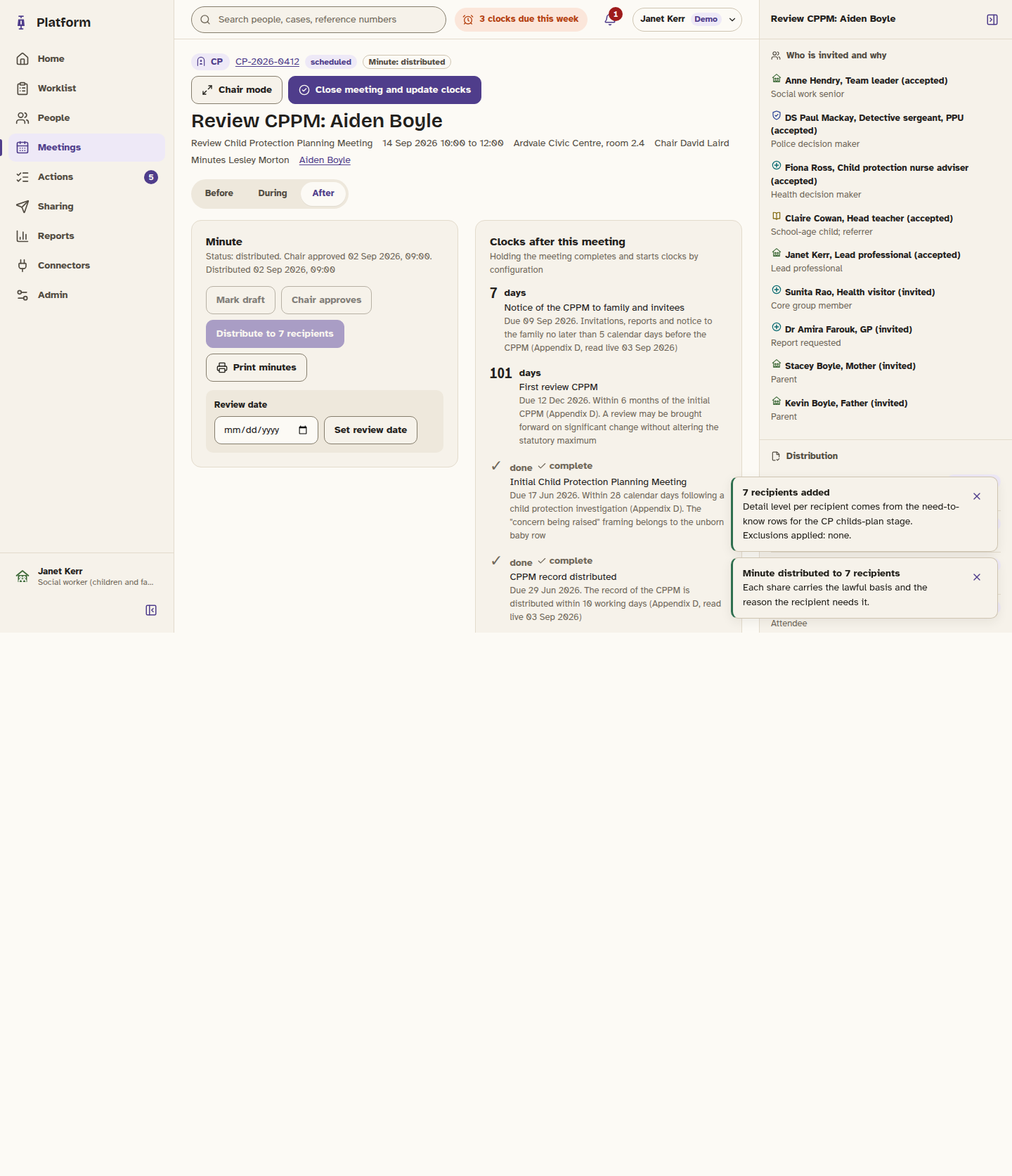
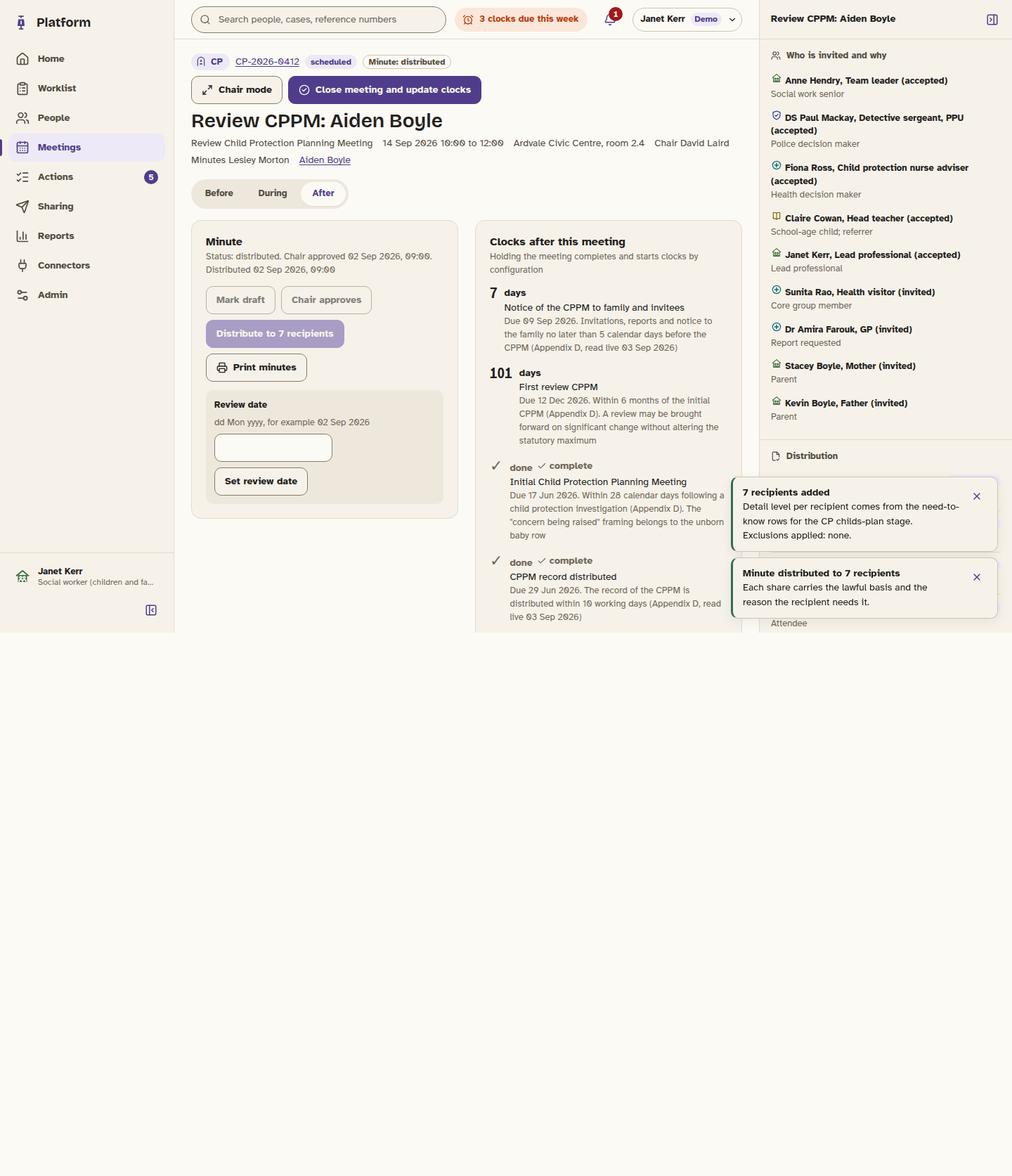
feat(ui): type dates as dd Mon yyyy in a shared DateField
Native date inputs render in the browser's locale, so the DAQ capture
showed 09/02/2026 where the product shows dd Mon yyyy everywhere else.
A DateField primitive now takes typed text (02 Sep 2026, 2 September
2026, 02/09/2026 or ISO), normalises it on blur, hands the form a
calendar date and names the format with an example when it cannot read
one. All twelve date inputs use it: the form dialogs, the meeting due
and review dates, the admin holiday lists and the audit filter.

The must-not-receive relationship hint is one example on one line so the
three fields in the entry sit level. Unit tests cover the parser and
the field; screenshots recaptured.

Claude-Session: https://claude.ai/code/session_01FKeMmPt1Xxg5XsbCUvgkkp

Changed region(s): [[0.1875, 0.3419, 0.4375, 0.4351]]

diff --git a/apps/web/features/meetings/MeetingWorkspace.tsx b/apps/web/features/meetings/MeetingWorkspace.tsx
@@ -1,7 +1,7 @@
 'use client';
 
 import { AGENCIES, AGENCY_SHORT, DETAIL_LEVELS, DETAIL_LEVEL_LABELS, MEETING_TYPE_LABELS, PROCESS_SHORT, ROLE_DEFINITIONS, applyMeetingTransition, contextFor, formatDate, formatDateTime, formatTime, isExcludedParty, resolveNeedToKnow, type Action, type Agency, type DetailLevel, type LawfulBasisRecord, type Meeting, type SharingRecord } from '@mas/domain';
-import { AgencyMark, Button, CheckboxField, ClockNumeral, Dialog, EmptyState, Pill, ProcessMark, RestrictedState, SelectField, Sheet, SheetBody, SheetHead, TextField, TextareaField, VoiceBlock, useToast } from '@mas/ui';
+import { AgencyMark, Button, CheckboxField, ClockNumeral, DateField, Dialog, EmptyState, Pill, ProcessMark, RestrictedState, SelectField, Sheet, SheetBody, SheetHead, TextField, TextareaField, VoiceBlock, useToast } from '@mas/ui';
 import { CheckCircle2, Maximize2, Minimize2, Play, Printer, Send, UserPlus } from 'lucide-react';
 import { useEffect, useState } from 'react';
 import { AppLink } from '@/components/AppLink';
@@ -312,7 +312,7 @@ export function MeetingWorkspace({ meetingId }: { meetingId: string }) {
                   <div className="cluster" style={{ alignItems: 'flex-end' }}>
                     <SelectField label="Agency" value={requestForm.agency} onChange={(e) => setRequestForm({ ...requestForm, agency: e.target.value as Agency, to: '' })} options={AGENCIES.map((a) => ({ value: a, label: AGENCY_SHORT[a] }))} />
                     <SelectField label="To" value={requestForm.to} onChange={(e) => setRequestForm({ ...requestForm, to: e.target.value })} placeholder="Choose a person" options={personas.filter((u) => u.agency === requestForm.agency).map((u) => ({ value: u.id, label: `${userName(u)}, ${ROLE_DEFINITIONS[u.roleId].label}` }))} />
-                    <TextField label="Due" type="date" value={requestForm.due} onChange={(e) => setRequestForm({ ...requestForm, due: e.target.value })} />
+                    <DateField label="Due" value={requestForm.due} onChange={(due) => setRequestForm({ ...requestForm, due })} />
                     <Button variant="secondary" icon={<Send size={14} aria-hidden="true" />} onClick={sendRequest} disabled={!requestForm.due}>
                       Send request
                     </Button>
@@ -482,7 +482,7 @@ export function MeetingWorkspace({ meetingId }: { meetingId: string }) {
                       <TextField label="Action" value={actionForm.title} onChange={(e) => setActionForm({ ...actionForm, title: e.target.value })} placeholder="Say what will happen, by whom, by when" />
                     </div>
                     <SelectField label="Owner" value={actionForm.owner} onChange={(e) => setActionForm({ ...actionForm, owner: e.target.value })} placeholder="Choose an attendee" options={meeting.invitees.filter((i) => i.userId).map((i) => ({ value: i.userId!, label: `${i.name} (${AGENCY_SHORT[i.agency]})` }))} />
-                    <TextField label="Due" type="date" value={actionForm.due} onChange={(e) => setActionForm({ ...actionForm, due: e.target.value })} />
+                    <DateField label="Due" value={actionForm.due} onChange={(due) => setActionForm({ ...actionForm, due })} />
                     <Button variant="primary" onClick={addAction} disabled={!actionForm.owner || !actionForm.due || actionForm.title.trim().length < 5}>
                       Capture action
                     </Button>
@@ -514,7 +514,7 @@ export function MeetingWorkspace({ meetingId }: { meetingId: string }) {
                 </div>
                 <div className={styles.form} style={{ marginTop: 12 }}>
                   <div className="cluster" style={{ alignItems: 'flex-end' }}>
-                    <TextField label="Review date" type="date" value={reviewDate} onChange={(e) => setReviewDate(e.target.value)} />
+                    <DateField label="Review date" value={reviewDate} onChange={setReviewDate} />
                     <Button variant="secondary" onClick={() => { update({ reviewDate: reviewDate || undefined }); toast({ title: 'Review date set', text: reviewDate ? formatDate(reviewDate) : 'Cleared' }); }}>
                       Set review date
                     </Button>

diff --git a/apps/web/features/process/forms/DaqDialog.tsx b/apps/web/features/process/forms/DaqDialog.tsx
@@ -1,7 +1,7 @@
 'use client';
 
 import { DAQ_QUESTIONS, DASH_QUESTIONS, HIGH_RISK_THRESHOLD, MARAC_MUST_NOT_RECEIVE_PARTIES, daqFormSchema, registerUpdateLabel, withMustNotReceive, type DaqForm, type MaracProcess, type RiskAssessment } from '@mas/domain';
-import { Button, CheckboxField, Dialog, RadioGroup, TextField, TextareaField, useToast } from '@mas/ui';
+import { Button, CheckboxField, DateField, Dialog, RadioGroup, TextareaField, useToast } from '@mas/ui';
 import { zodResolver } from '@hookform/resolvers/zod';
 import { Controller, FormProvider, useForm } from 'react-hook-form';
 import { useAppStore, useCurrentUser, useNow } from '@/lib/store';
@@ -78,7 +78,7 @@ export function DaqDialog({ open, onClose, process }: { open: boolean; onClose: 
       <FormProvider {...form}>
         <form className="stack" onSubmit={(e) => e.preventDefault()} noValidate>
           <Controller control={form.control} name="tool" render={({ field }) => <RadioGroup legend="Instrument" name="tool" value={field.value} onChange={field.onChange} orientation="horizontal" options={[{ value: 'daq', label: 'Police Scotland DAQ (27 questions)' }, { value: 'dash', label: 'SafeLives DASH (24 questions)' }]} />} />
-          <TextField label="Date completed" type="date" required {...form.register('assessedAt')} error={errors.assessedAt?.message} />
+          <Controller control={form.control} name="assessedAt" render={({ field }) => <DateField label="Date completed" required value={field.value} onChange={field.onChange} onBlur={field.onBlur} name={field.name} error={errors.assessedAt?.message} />} />
           <p aria-live="polite" style={{ fontWeight: 700 }}>
             {yes} yes answers so far. {yes >= HIGH_RISK_THRESHOLD ? 'High risk: this meets the referral threshold.' : `${HIGH_RISK_THRESHOLD - yes} more for the high-risk threshold.`}
           </p>
@@ -89,7 +89,7 @@ export function DaqDialog({ open, onClose, process }: { open: boolean; onClose: 
           </div>
           <CheckboxField label="Refer on professional judgement even if below 14" {...form.register('referBelowThreshold')} />
           <TextareaField label="Professional judgement" {...form.register('professionalJudgement')} error={errors.professionalJudgement?.message} hint="Required for a referral below the threshold. Why the score understates the risk." />
-          <MustNotReceiveFields parties={MARAC_MUST_NOT_RECEIVE_PARTIES} relationshipHint="For example the perpetrator's brother, or someone who lives with the perpetrator." />
+          <MustNotReceiveFields parties={MARAC_MUST_NOT_RECEIVE_PARTIES} relationshipHint="For example the perpetrator's brother." />
         </form>
       </FormProvider>
     </Dialog>

diff --git a/packages/ui/src/primitives/DateField.tsx b/packages/ui/src/primitives/DateField.tsx
@@ -1,0 +1,68 @@
+import { formatCalendarDate, parseTypedDate, UI_DATE_EXAMPLE, UI_DATE_FORMAT } from '@mas/domain';
+import { useState, type InputHTMLAttributes, type ReactNode } from 'react';
+import { cn } from '../cn';
+import styles from './DateField.module.css';
+import { TextField } from './Field';
+
+export interface DateFieldProps extends Omit<InputHTMLAttributes<HTMLInputElement>, 'value' | 'onChange' | 'type' | 'required'> {
+  label: ReactNode;
+  hint?: ReactNode;
+  error?: ReactNode;
+  required?: boolean;
+  /** A calendar date as yyyy-MM-dd, or empty. */
+  value: string;
+  /** Called with yyyy-MM-dd when the text parses, with the raw text otherwise so a schema can reject it. */
+  onChange: (value: string) => void;
+}
+
+const FORMAT_ERROR = `Enter the date as ${UI_DATE_FORMAT}, for example ${UI_DATE_EXAMPLE}`;
+
+/**
+ * A date typed as dd Mon yyyy, the format the rest of the product shows. Native date inputs
+ * render in the browser's locale, which the product cannot control, so this field takes text
+ * and normalises it on blur. Accepts 2 Sep 2026, 02/09/2026 and 2026-09-02 as well.
+ */
+export function DateField({ label, hint, error, required, value, onChange, onBlur, className, ...rest }: DateFieldProps) {
+  const [text, setText] = useState(() => formatCalendarDate(value) || value);
+  const [formatError, setFormatError] = useState<string | undefined>(undefined);
+  const [seenValue, setSeenValue] = useState(value);
+
+  // Follow the value when it changes from outside (a reset, a default, a cleared filter) without
+  // disturbing text the person is still typing that already means the same date.
+  if (value !== seenValue) {
+    setSeenValue(value);
+    if (parseTypedDate(text) !== value) setText(formatCalendarDate(value) || value);
+    if (!value) setFormatError(undefined);
+  }
+
+  return (
+    <TextField
+      label={label}
+      hint={hint ?? `${UI_DATE_FORMAT}, for example ${UI_DATE_EXAMPLE}`}
+      error={error ?? formatError}
+      required={required}
+      className={cn(styles.date, className)}
+      inputMode="text"
+      autoComplete="off"
+      spellCheck={false}
+      value={text}
+      onChange={(e) => {
+        const next = e.target.value;
+        setText(next);
+        setFormatError(undefined);
+        onChange(parseTypedDate(next) ?? next);
+      }}
+      onBlur={(e) => {
+        const parsed = parseTypedDate(text);
+        if (parsed) {
+          setText(formatCalendarDate(parsed));
+          setFormatError(undefined);
+        } else {
+          setFormatError(text.trim() ? FORMAT_ERROR : undefined);
+        }
+        onBlur?.(e);
+      }}
+      {...rest}
+    />
+  );
+}

diff --git a/packages/domain/src/dates.ts b/packages/domain/src/dates.ts
@@ -2,7 +2,7 @@
  * Date helpers. UI shows dd Mon yyyy and 24-hour times in Europe/London.
  * Data stays ISO 8601. All functions are pure.
  */
-import { differenceInCalendarDays, differenceInYears, parseISO } from 'date-fns';
+import { differenceInCalendarDays, differenceInYears, format, isValid, parse, parseISO } from 'date-fns';
 import { formatInTimeZone, toZonedTime } from 'date-fns-tz';
 
 export const TIME_ZONE = 'Europe/London';
@@ -33,6 +33,32 @@ export function formatTime(iso: string | Date): string {
 export function localDateOf(iso: string | Date): string {
   const d = typeof iso === 'string' ? parseISO(iso) : iso;
   return formatInTimeZone(d, TIME_ZONE, 'yyyy-MM-dd');
+}
+
+/** The format practitioners type a date in, and the example shown beside every date field. */
+export const UI_DATE_FORMAT = 'dd Mon yyyy';
+export const UI_DATE_EXAMPLE = '02 Sep 2026';
+
+const TYPED_DATE_FORMATS = ['dd MMM yyyy', 'd MMM yyyy', 'dd MMMM yyyy', 'd MMMM yyyy', 'dd/MM/yyyy', 'd/M/yyyy', 'dd.MM.yyyy', 'yyyy-MM-dd'];
+
+/**
+ * Parse a date as a practitioner types it (02 Sep 2026, 2 September 2026, 02/09/2026 or ISO)
+ * to a yyyy-MM-dd calendar date. Returns undefined when the text is not a real date.
+ */
+export function parseTypedDate(text: string): string | undefined {
+  const trimmed = text.trim().replace(/\s+/g, ' ');
+  if (!trimmed) return undefined;
+  for (const pattern of TYPED_DATE_FORMATS) {
+    const d = parse(trimmed, pattern, new Date(2000, 0, 1));
+    if (isValid(d) && d.getFullYear() >= 1900 && d.getFullYear() <= 2100) return format(d, 'yyyy-MM-dd');
+  }
+  return undefined;
+}
+
+/** dd Mon yyyy for a calendar date (yyyy-MM-dd) without any time zone shift; empty for an empty or invalid value. */
+export function formatCalendarDate(iso: string): string {
+  const d = parse(iso, 'yyyy-MM-dd', new Date(2000, 0, 1));
+  return isValid(d) ? format(d, 'dd MMM yyyy') : '';
 }
 
 export function toLocal(iso: string | Date): Date {

diff --git a/packages/ui/src/primitives/primitives.test.tsx b/packages/ui/src/primitives/primitives.test.tsx
@@ -1,7 +1,9 @@
-import { render, screen } from '@testing-library/react';
+import { fireEvent, render, screen } from '@testing-library/react';
+import { useState } from 'react';
 import { describe, expect, it } from 'vitest';
 import { Button } from './Button';
 import { ClockNumeral } from './ClockNumeral';
+import { DateField } from './DateField';
 import { AgencyMark, RiskBand } from './Marks';
 import { RestrictedState } from './States';
 
@@ -32,5 +34,30 @@ describe('primitives', () => {
   it('explains break-glass availability', () => {
     render(<RestrictedState reason="Not on the distribution list." breakGlass="unavailable" />);
     expect(screen.getByText(/not available for your agency/)).toBeInTheDocument();
+  });
+
+  it('shows a typed date as dd Mon yyyy and hands the form a calendar date', () => {
+    function Harness() {
+      const [value, setValue] = useState('2026-09-02');
+      return (
+        <>
+          <DateField label="Date completed" value={value} onChange={setValue} />
+          <output data-testid="value">{value}</output>
+        </>
+      );
+    }
+    render(<Harness />);
+    const input = screen.getByLabelText<HTMLInputElement>('Date completed');
+    expect(input.value).toBe('02 Sep 2026');
+    expect(input).toHaveAccessibleDescription('dd Mon yyyy, for example 02 Sep 2026');
+    fireEvent.change(input, { target: { value: '14/9/2026' } });
+    expect(screen.getByTestId('value')).toHaveTextContent('2026-09-14');
+    fireEvent.blur(input);
+    expect(input.value).toBe('14 Sep 2026');
+    fireEvent.change(input, { target: { value: '31 Feb 2026' } });
+    expect(screen.getByTestId('value')).toHaveTextContent('31 Feb 2026');
+    fireEvent.blur(input);
+    expect(screen.getByRole('alert')).toHaveTextContent('Enter the date as dd Mon yyyy, for example 02 Sep 2026');
+    expect(input).toHaveAttribute('aria-invalid', 'true');
   });
 });

diff --git a/apps/web/features/audit/Audit.tsx b/apps/web/features/audit/Audit.tsx
@@ -1,7 +1,7 @@
 'use client';
 
 import { AGENCIES, AGENCY_LABELS, AUDIT_ACTS, ROLE_DEFINITIONS, formatDateTime, formatTime, localDateOf, type AuditAct, type AuditEntry, type Dataset } from '@mas/domain';
-import { AgencyMark, Button, Pill, SelectField, Switch, Table, TableWrap, TextField, useToast, type PillTone } from '@mas/ui';
+import { AgencyMark, Button, DateField, Pill, SelectField, Switch, Table, TableWrap, TextField, useToast, type PillTone } from '@mas/ui';
 import { Download, Lock, ShieldAlert } from 'lucide-react';
 import { useEffect, useState } from 'react';
 import { AppLink } from '@/components/AppLink';
@@ -195,8 +195,8 @@ export function Audit() {
         <SelectField label="User" value={userFilter} onChange={(e) => set('user', e.target.value || null)} placeholder="Anyone" options={userOptions} />
         <SelectField label="Agency" value={agencyFilter} onChange={(e) => set('agency', e.target.value || null)} placeholder="All agencies" options={AGENCIES.map((a) => ({ value: a, label: AGENCY_LABELS[a] }))} />
         <SelectField label="Act" value={actFilter} onChange={(e) => set('act', e.target.value || null)} placeholder="All acts" options={AUDIT_ACTS.map((a) => ({ value: a, label: ACT_LABELS[a] }))} />
-        <TextField label="From" type="date" value={from} onChange={(e) => set('from', e.target.value || null)} />
-        <TextField label="To" type="date" value={to} onChange={(e) => set('to', e.target.value || null)} />
+        <DateField label="From" value={from} onChange={(v) => set('from', /^\d{4}-\d{2}-\d{2}$/.test(v) ? v : null)} />
+        <DateField label="To" value={to} onChange={(v) => set('to', /^\d{4}-\d{2}-\d{2}$/.test(v) ? v : null)} />
       </div>
       <div className={styles.quick}>
         <Switch label="Break-glass and restricted reads only" checked={quick} onChange={(e) => set('quick', e.target.checked ? '1' : null)} />

diff --git a/apps/web/features/admin/Defaults.tsx b/apps/web/features/admin/Defaults.tsx
@@ -1,7 +1,7 @@
 'use client';
 
 import { formatDate } from '@mas/domain';
-import { Button, IconButton, RadioGroup, Sheet, SheetBody, SheetHead, TextField } from '@mas/ui';
+import { Button, DateField, IconButton, RadioGroup, Sheet, SheetBody, SheetHead, TextField } from '@mas/ui';
 import { zodResolver } from '@hookform/resolvers/zod';
 import { Plus, X } from 'lucide-react';
 import { useState } from 'react';
@@ -227,7 +227,7 @@ export function Defaults() {
             </ul>
             {canEdit ? (
               <div className={styles.addRow}>
-                <TextField label="Add a bank holiday" type="date" value={newHoliday} onChange={(e) => setNewHoliday(e.target.value)} onKeyDown={(e) => e.key === 'Enter' && addHoliday()} error={holidayError} />
+                <DateField label="Add a bank holiday" value={newHoliday} onChange={setNewHoliday} onKeyDown={(e) => e.key === 'Enter' && addHoliday()} error={holidayError} />
                 <Button variant="secondary" icon={<Plus size={14} aria-hidden="true" />} onClick={addHoliday}>
                   Add date
                 </Button>
@@ -256,7 +256,7 @@ export function Defaults() {
             </ul>
             {canEdit ? (
               <div className={styles.addRow}>
-                <TextField label="Add a council holiday" type="date" value={newCouncilHoliday} onChange={(e) => setNewCouncilHoliday(e.target.value)} onKeyDown={(e) => e.key === 'Enter' && addCouncilHoliday()} error={councilHolidayError} />
+                <DateField label="Add a council holiday" value={newCouncilHoliday} onChange={setNewCouncilHoliday} onKeyDown={(e) => e.key === 'Enter' && addCouncilHoliday()} error={councilHolidayError} />
                 <Button variant="secondary" icon={<Plus size={14} aria-hidden="true" />} onClick={addCouncilHoliday}>
                   Add date
                 </Button>

diff --git a/apps/web/features/admin/Forms.tsx b/apps/web/features/admin/Forms.tsx
@@ -1,10 +1,10 @@
 'use client';
 
 import { PROCESS_LABELS, formatDate, type Config } from '@mas/domain';
-import { Button, Dialog, ProcessMark, Table, TableWrap, TextField } from '@mas/ui';
+import { Button, DateField, Dialog, ProcessMark, Table, TableWrap, TextField } from '@mas/ui';
 import { zodResolver } from '@hookform/resolvers/zod';
 import { useState } from 'react';
-import { useForm } from 'react-hook-form';
+import { Controller, useForm } from 'react-hook-form';
 import { z } from 'zod';
 import styles from './Forms.module.css';
 import { SectionHead } from './SectionHead';
@@ -58,7 +58,7 @@ function VersionDialog({ form: current, canEdit, onClose, onSave }: { form: Form
           Current: version {current.version}, effective from {formatDate(current.effectiveFrom)}. Source: {current.source}.
         </p>
         <TextField label="New version" required disabled={!canEdit} maxLength={20} placeholder="e.g. 2026.1" {...rhf.register('version')} error={errors.version?.message} />
-        <TextField label="Effective from" type="date" required disabled={!canEdit} {...rhf.register('effectiveFrom')} error={errors.effectiveFrom?.message} hint="Records created on or after this date use the new version." />
+        <Controller control={rhf.control} name="effectiveFrom" render={({ field }) => <DateField label="Effective from" required disabled={!canEdit} value={field.value} onChange={field.onChange} onBlur={field.onBlur} name={field.name} error={errors.effectiveFrom?.message} hint="Records created on or after this date use the new version. Type it as dd Mon yyyy." />} />
         <TextField label="Source" required disabled={!canEdit} maxLength={160} {...rhf.register('source')} error={errors.source?.message} />
         {saveErrors.length > 0 ? (
           <ul className={styles.errors} role="alert">

diff --git a/apps/web/features/process/forms/ThreePointTestDialog.tsx b/apps/web/features/process/forms/ThreePointTestDialog.tsx
@@ -1,7 +1,7 @@
 'use client';
 
 import { HARM_TYPES, HARM_TYPE_LABELS, THREE_POINT_LIMBS, threePointTestFormSchema, type AspProcess, type ThreePointTestForm } from '@mas/domain';
-import { Button, CheckboxField, Dialog, RadioGroup, TextField, TextareaField, useToast } from '@mas/ui';
+import { Button, CheckboxField, DateField, Dialog, RadioGroup, TextareaField, useToast } from '@mas/ui';
 import { zodResolver } from '@hookform/resolvers/zod';
 import { Controller, useForm } from 'react-hook-form';
 import { useAppStore, useCurrentUser, useNow } from '@/lib/store';
@@ -55,7 +55,7 @@ export function ThreePointTestDialog({ open, onClose, process }: { open: boolean
     >
       <form className="stack" onSubmit={(e) => e.preventDefault()} noValidate>
         <p>All three limbs must be met. Record your reasoning for each limb; the reasoning is what a reviewer or an inspector reads.</p>
-        <TextField label="Date of assessment" type="date" required {...form.register('assessedAt')} error={errors.assessedAt?.message} />
+        <Controller control={form.control} name="assessedAt" render={({ field }) => <DateField label="Date of assessment" required value={field.value} onChange={field.onChange} onBlur={field.onBlur} name={field.name} error={errors.assessedAt?.message} />} />
         {(['a', 'b', 'c'] as const).map((k) => (
           <div key={k} className="stack" style={{ gap: 8 }}>
             <Controller control={form.control} name={`${k}.met`} render={({ field }) => <RadioGroup legend={`${THREE_POINT_LIMBS[k].label}. ${THREE_POINT_LIMBS[k].text}`} name={`${k}-met`} value={field.value} onChange={field.onChange} orientation="horizontal" options={[{ value: 'yes', label: 'Met' }, { value: 'no', label: 'Not met' }, { value: 'unclear', label: 'Unclear' }]} />} />

diff --git a/apps/web/features/process/forms/CapacityAssessmentDialog.tsx b/apps/web/features/process/forms/CapacityAssessmentDialog.tsx
@@ -1,7 +1,7 @@
 'use client';
 
 import { capacityAssessmentFormSchema, type AwiProcess, type CapacityAssessmentForm } from '@mas/domain';
-import { Button, Dialog, RadioGroup, TextField, TextareaField, useToast } from '@mas/ui';
+import { Button, DateField, Dialog, RadioGroup, TextField, TextareaField, useToast } from '@mas/ui';
 import { zodResolver } from '@hookform/resolvers/zod';
 import { Controller, useForm } from 'react-hook-form';
 import { useAppStore, useCurrentUser, useNow } from '@/lib/store';
@@ -66,7 +66,7 @@ export function CapacityAssessmentDialog({ open, onClose, process }: { open: boo
         <p>Capacity is decision-specific and time-specific. Record the decision, the functional test item by item, the evidence, and the adult&apos;s past and present wishes.</p>
         <TextField label="The specific decision" required {...form.register('decision')} error={errors.decision?.message} />
         <div className="cluster" style={{ alignItems: 'flex-start' }}>
-          <TextField label="Date" type="date" required {...form.register('assessedAt')} error={errors.assessedAt?.message} />
+          <Controller control={form.control} name="assessedAt" render={({ field }) => <DateField label="Date" required value={field.value} onChange={field.onChange} onBlur={field.onBlur} name={field.name} error={errors.assessedAt?.message} />} />
           <TextField label="Assessor" required {...form.register('assessorName')} error={errors.assessorName?.message} />
           <TextField label="Role" required {...form.register('assessorRole')} error={errors.assessorRole?.message} />
         </div>

diff --git a/apps/web/features/chronology/AddEventDialog.tsx b/apps/web/features/chronology/AddEventDialog.tsx
@@ -1,7 +1,7 @@
 'use client';
 
 import { EVENT_TYPES, SIGNIFICANCES, type ChronologyAnalysis, type ChronologyEvent, type LawfulBasisRecord } from '@mas/domain';
-import { Button, CheckboxField, Dialog, RadioGroup, SelectField, TextField, TextareaField, useToast } from '@mas/ui';
+import { Button, CheckboxField, DateField, Dialog, RadioGroup, SelectField, TextField, TextareaField, useToast } from '@mas/ui';
 import { zodResolver } from '@hookform/resolvers/zod';
 import { Controller, useForm } from 'react-hook-form';
 import { z } from 'zod';
@@ -135,7 +135,7 @@ export function AddEventDialog({ open, onClose, personId, processIds, recentEven
         {kind === 'fact' ? (
           <>
             <div className="cluster" style={{ alignItems: 'flex-start' }}>
-              <TextField label="Date" type="date" required {...form.register('occurredDate')} error={'occurredDate' in errors ? errors.occurredDate?.message : undefined} />
+              <Controller control={form.control} name="occurredDate" render={({ field }) => <DateField label="Date" required value={field.value} onChange={field.onChange} onBlur={field.onBlur} name={field.name} error={'occurredDate' in errors ? errors.occurredDate?.message : undefined} />} />
               <TextField label="Time (if known)" type="time" {...form.register('occurredTime')} />
               <CheckboxField label="Date is approximate" {...form.register('approximate')} />
             </div>

diff --git a/packages/domain/src/dates.test.ts b/packages/domain/src/dates.test.ts
@@ -1,0 +1,30 @@
+import { describe, expect, it } from 'vitest';
+import { formatCalendarDate, parseTypedDate } from './dates';
+
+describe('typed dates', () => {
+  it('parses the formats a practitioner types to a calendar date', () => {
+    expect(parseTypedDate('02 Sep 2026')).toBe('2026-09-02');
+    expect(parseTypedDate('2 sep 2026')).toBe('2026-09-02');
+    expect(parseTypedDate('2 September 2026')).toBe('2026-09-02');
+    expect(parseTypedDate('02/09/2026')).toBe('2026-09-02');
+    expect(parseTypedDate('2/9/2026')).toBe('2026-09-02');
+    expect(parseTypedDate('2026-09-02')).toBe('2026-09-02');
+    expect(parseTypedDate('  02  Sep   2026 ')).toBe('2026-09-02');
+  });
+
+  it('rejects text that is not a real date', () => {
+    expect(parseTypedDate('')).toBeUndefined();
+    expect(parseTypedDate('31 Feb 2026')).toBeUndefined();
+    expect(parseTypedDate('09/02/2026 pm')).toBeUndefined();
+    expect(parseTypedDate('Sep 2026')).toBeUndefined();
+    expect(parseTypedDate('02 Sep 26')).toBeUndefined();
+    expect(parseTypedDate('02 Sep 1850')).toBeUndefined();
+  });
+
+  it('formats a calendar date as dd Mon yyyy with no time zone shift', () => {
+    expect(formatCalendarDate('2026-09-02')).toBe('02 Sep 2026');
+    expect(formatCalendarDate('2026-03-29')).toBe('29 Mar 2026');
+    expect(formatCalendarDate('')).toBe('');
+    expect(formatCalendarDate('not a date')).toBe('');
+  });
+});
